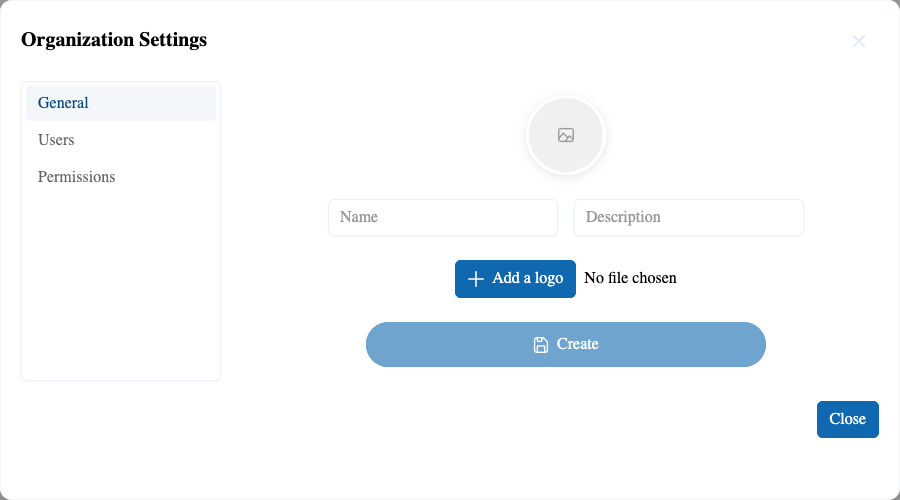
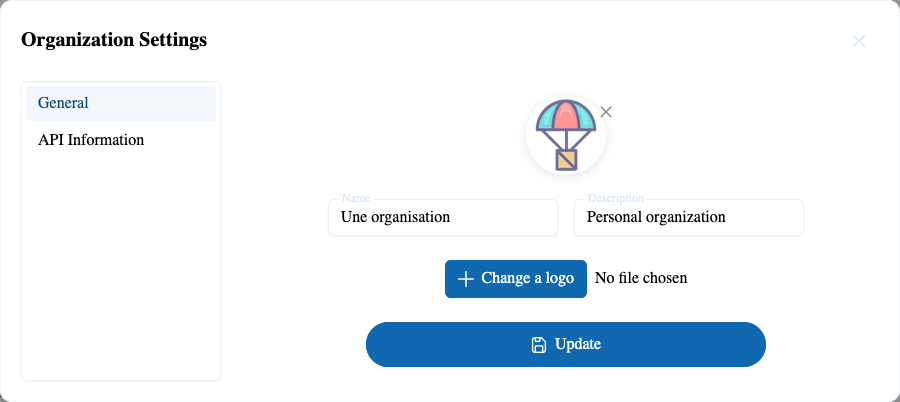
modified the documentation to add the api key for the organization

diff --git a/fr/dashboard/organizations.md b/fr/dashboard/organizations.md
@@ -48,7 +48,7 @@ Pour renommer ou mettre à jour une organisation :
 2. Modifiez le nom, la description ou le logo
 3. Enregistrez les modifications
 
-![](/assets/dashboard/organization-modal-filled.png)
+<!-- ![](/assets/dashboard/organization-modal-filled.png) -->
 
 ## Supprimer une organisation
 
@@ -68,6 +68,15 @@ Cette action est irréversible.
   <img src="/assets/dashboard/organization-delete.png" alt="Suppression d'organisation" />
 </div>
 
+## Avoir votre clé API
+
+Pour obtenir votre clé API :
+
+1. Allez dans les **paramètres de l’organisation** en sélectionnant l'organisation et en faisant un clic droit. Vous verrez la même fenêtre que lors de la création.
+2. Accédez à l'onglet **Informations API**.
+3. Copiez ou actualisez la clé API.
+
+![](/assets/dashboard/organization-modal-apikey.png)
 
 <!-- ## Gérer les utilisateurs et les permissions
 **Bientôt disponible** -->

diff --git a/dashboard/organizations.md b/dashboard/organizations.md
@@ -52,7 +52,7 @@ To rename or update an organization:
 2. Change the name, description or logo
 3. Save your changes
 
-![](/assets/dashboard/organization-modal-filled.png)
+<!-- ![](/assets/dashboard/organization-modal-filled.png) -->
 
 ## Delete an Organization
 
@@ -71,6 +71,14 @@ This action is irreversible.
   <img src="/assets/dashboard/organization-delete.png" alt="Organization" />
 </div>
 
+## Get your API key
+
+To get your API key:
+1. go to the **organization settings** by selecting the organization and right clicking on it. You will be presented with the same popup as before.
+2. Go to the **API information** tab.
+3. You can copy the API key or refresh the key.
+
+![](/assets/dashboard/organization-modal-apikey.png)
 
 ## Manage Users and permissions
 **Coming soon**
